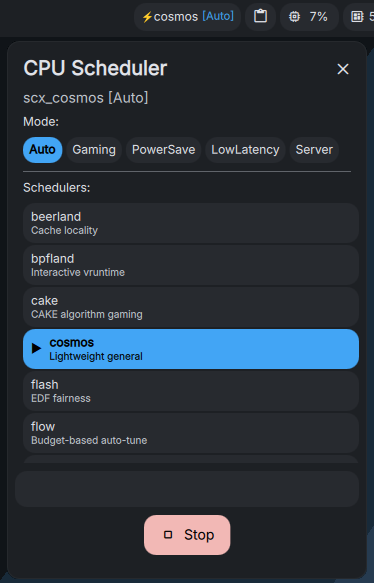
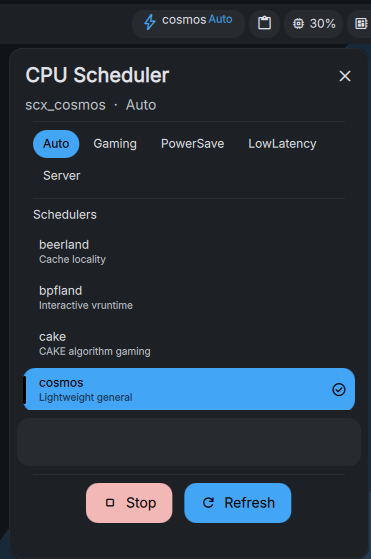
docs: new README with screenshot, usage, and configuration
Replaced old screenshot with current v1.5.0 state showing the popout
with scheduler list, mode buttons, and hover tooltip.

diff --git a/README.md b/README.md
@@ -1,0 +1,71 @@
+# Scheduler Picker
+
+A [DankMaterialShell](https://github.com/AvengeMedia/dms-plugins) bar widget for switching CPU schedulers and power profiles. Interfaces with `scx_loader` (the CachyOS sched-ext manager) via D-Bus.
+
+![screenshot](https://raw.githubusercontent.com/SK-DEV-AI/dankSchedPicker/main/screenshot.png)
+
+## Features
+
+- **12 schedulers** — switch between all available scx schedulers (bpfland, rusty, lavd, flow, etc.) with one click
+- **5 power modes** — Auto, Gaming, PowerSave, LowLatency, Server
+- **Hover descriptions** — full scheduler information in the tooltip area
+- **Self-contained** — no external JS, all logic in QML + a helper shell script
+
+## Requirements
+
+- DankMaterialShell 1.4+
+- `scx_loader` (ships with CachyOS; Arch: `scx-scheds` package)
+- D-Bus session bus (scx_loader registers on the system bus)
+
+## Installation
+
+1. Open DMS Settings → Plugins
+2. Find **Scheduler Picker**
+3. Click Install
+4. Add the widget to your bar in DMS Bar Settings
+
+Or clone manually:
+
+```sh
+mkdir -p ~/.config/DankMaterialShell/plugins
+cd ~/.config/DankMaterialShell/plugins
+git clone https://github.com/SK-DEV-AI/dankSchedPicker.git
+```
+
+Then register it in `settings.json` under `barConfigs[].rightWidgets`:
+
+```json
+{"id": "dankSchedPicker", "enabled": true}
+```
+
+Restart DMS.
+
+## Usage
+
+- **Left-click** the bolt pill → opens the scheduler picker popout
+- **Right-click** the bolt pill → stops the current scheduler
+- **Mode buttons** → switch power profile (Auto/Gaming/PowerSave/LowLatency/Server)
+- **Scheduler list** → click any to activate; the active one has a left accent bar and check mark
+- **Stop** → stops the active scheduler
+- **Refresh** → refreshes the list and current state
+
+## Configuration
+
+Available in DMS Settings → Scheduler Picker:
+
+| Setting | Default | Description |
+|---------|---------|-------------|
+| Poll interval | 3s | How often to check current scheduler state |
+| List refresh | 15s | How often to refresh the available scheduler list |
+| Auto-refresh | On | Automatically refresh the scheduler list |
+| Animate transitions | On | Smooth color transitions in the popout |
+
+## Roadmap
+
+- [ ] Per-scheduler mode presets
+- [ ] CPU governor integration
+- [ ] Custom scheduler arguments
+
+## License
+
+MIT